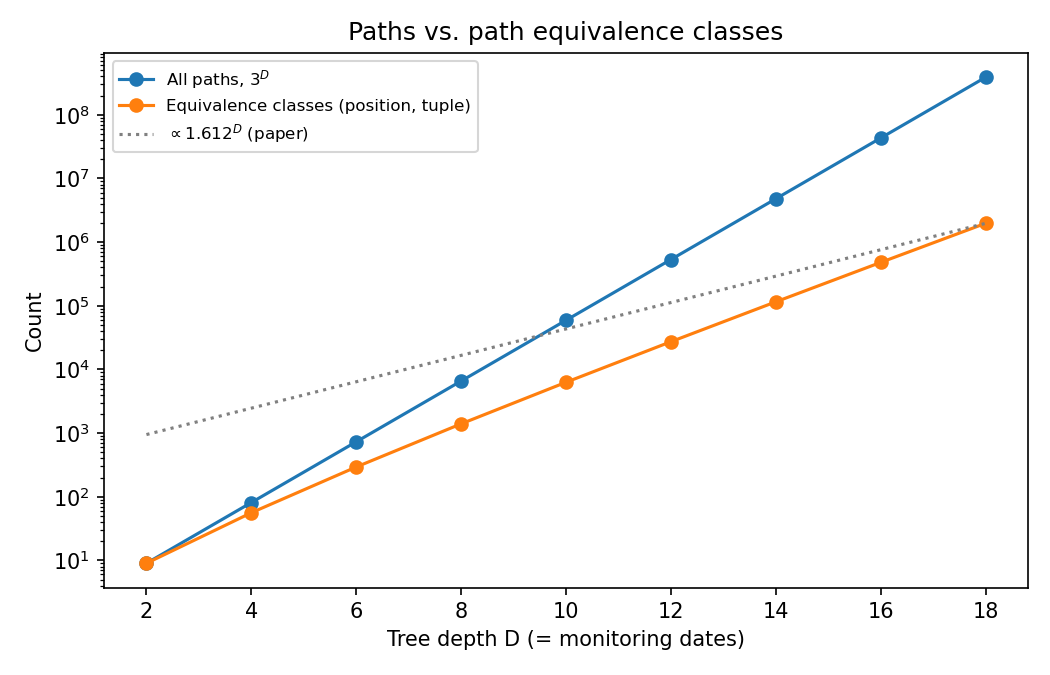
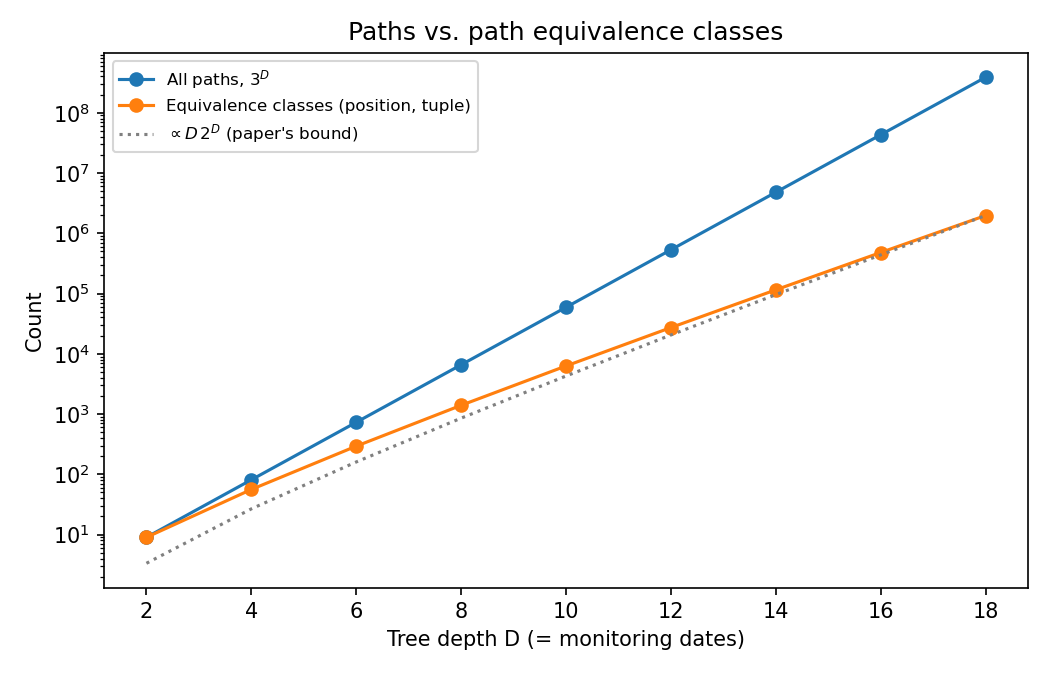
Update Asian put write-up to arXiv v2 of the paper
Cite the retitled v2, recast the growth-rate and peak-location
questions as confirmations (O(D 2^D) bound, D = 7 tuple counts), tie
the probability result to v2's degeneracy formula, soften the tree vs
GBM explanation, and fix the README layout.

diff --git a/Asian Put via Path Equivalence Classes.py b/Asian Put via Path Equivalence Classes.py
@@ -1,7 +1,7 @@
 # Exact pricing of an arithmetic-average Asian put on a recombining trinomial tree
 # by grouping paths into equivalence classes, following Torres, Sreenivas & Sowers,
-# "On the Enumeration of all Unique Paths of Recombining Trinomial Trees"
-# (arXiv:2510.02727). Two paths that end at the same node and visit each price
+# "Path Enumeration by Position-Visit Counts in Recombining Trinomial Trees"
+# (arXiv:2510.02727v2). Two paths that end at the same node and visit each price
 # level the same number of times (the same "cardinality tuple") have the same
 # path sum, so the Asian payoff only has to be evaluated once per class.
 #
@@ -221,20 +221,20 @@ if __name__ == "__main__":
             "Tree MC CI": "{:.5f}".format, "GBM MC": "{:.5f}".format,
             "GBM MC CI": "{:.5f}".format, "Tree - GBM": "{:+.5f}".format}))
 
-    # Growth of the number of classes against 3^D and the paper's 1.612^D rate
+    # Growth of the number of classes against 3^D and the paper's O(D 2^D) bound
     deep = conv[conv["D = m"] >= 8]
     growth = np.polyfit(deep["D = m"], np.log(deep["Classes"]), 1)[0]
     growth_node = np.polyfit(deep["D = m"], np.log(deep["Max per node"]), 1)[0]
     print(f"\nFitted growth, D >= 8: all classes ~ {np.exp(growth):.3f}^D, largest single node "
-          f"~ {np.exp(growth_node):.3f}^D (paper: 1.612^D; raw paths: 3^D)")
+          f"~ {np.exp(growth_node):.3f}^D (paper: O(D 2^D), base 2; raw paths: 3^D)")
 
     # Plots
     fig, ax = plt.subplots(figsize=(7, 4.5))
     ax.semilogy(conv["D = m"], conv["Paths 3^D"], "o-", label="All paths, $3^D$")
     ax.semilogy(conv["D = m"], conv["Classes"], "o-", label="Equivalence classes (position, tuple)")
     Ds = conv["D = m"].to_numpy(dtype=float)
-    ax.semilogy(Ds, conv["Classes"].iloc[-1] * 1.612 ** (Ds - Ds[-1]), ":", color="gray",
-                label=r"$\propto 1.612^D$ (paper)")
+    ax.semilogy(Ds, conv["Classes"].iloc[-1] * Ds / Ds[-1] * 2.0 ** (Ds - Ds[-1]), ":", color="gray",
+                label=r"$\propto D\,2^D$ (paper's bound)")
     ax.set_xlabel("Tree depth D (= monitoring dates)")
     ax.set_ylabel("Count")
     ax.set_title("Paths vs. path equivalence classes")

diff --git a/Asian Put via Path Equivalence Classes.md b/Asian Put via Path Equivalence Classes.md
@@ -1,6 +1,6 @@
 # Pricing an Asian put with path equivalence classes
 
-An experiment applying the cardinality-tuple equivalence classes from Torres, Sreenivas & Sowers, [*On the Enumeration of all Unique Paths of Recombining Trinomial Trees*](https://arxiv.org/abs/2510.02727) (arXiv:2510.02727), to exact pricing of an arithmetic-average Asian put. The code is in [`Asian Put via Path Equivalence Classes.py`](Asian%20Put%20via%20Path%20Equivalence%20Classes.py) and runs in about 20 seconds.
+An experiment applying the cardinality-tuple equivalence classes from Torres, Sreenivas & Sowers, [*Path Enumeration by Position-Visit Counts in Recombining Trinomial Trees*](https://arxiv.org/abs/2510.02727v2) (arXiv:2510.02727v2, September 2026), to exact pricing of an arithmetic-average Asian put. The code is in [`Asian Put via Path Equivalence Classes.py`](Asian%20Put%20via%20Path%20Equivalence%20Classes.py) and runs in about 20 seconds.
 
 ## Setup
 
@@ -10,13 +10,13 @@ An experiment applying the cardinality-tuple equivalence classes from Torres, Sr
 
 ## Method
 
-The paper's contribution is a recursion-free mass-shifting enumerator that generates one representative per class. I did **not** reimplement that algorithm. Instead, a forward pass over the tree merges paths as soon as they share (current position, cardinality tuple), and each class carries its total probability and its path count. This builds exactly the paper's classes $\hat C_{D,k^{\ast}}$. I checked that by counting distinct tuples over all 3^D paths for D = 5, 7 and 9, and it reproduces the paper's Figure 1 example (3 paths with sum 102).
+The paper's contribution is a recursion-free mass-shifting enumerator that generates one representative per class. I did **not** reimplement that algorithm. Instead, a forward pass over the tree merges paths as soon as they share (current position, cardinality tuple), and each class carries its total probability and its path count. This builds exactly the paper's classes $\hat C_{D,k^{\ast}}$. I checked that by counting distinct tuples over all 3^D paths for D = 5, 7 and 9. It also reproduces the paper's Figure 1 example (3 paths with sum 102) and its D = 7 table of tuple counts per endpoint (59, 71, 76, 68, 47, 23, 7, 1 for k\* = 0…7).
 
 ## Results
 
 **1. The class-based price is exact.** It matches brute-force enumeration of all 3^D paths to about 1e-13 for D ≤ 12. Monte Carlo on the tree agrees within the 95% CI at 8 of 9 depths.
 
-**2. The compression is large.** At D = 18 there are 1.97 million classes against 387 million paths, about 200× fewer, and the pass takes 8 s in pure Python.
+**2. The compression is large, and it grows at the paper's rate.** At D = 18 there are 1.97 million classes against 387 million paths, about 200× fewer, and the pass takes 8 s in pure Python. The fitted growth for D ≥ 8 is about 2.06^D in total and 1.97^D at the largest single endpoint. That is consistent with the paper's O(D·2^D) worst-case bound and exact growth base 2; the extra factor of D nudges a fitted base slightly above 2.
 
 | D | Paths 3^D | Classes | Exact tree price |
 |---|---|---|---|
@@ -24,7 +24,7 @@ The paper's contribution is a recursion-free mass-shifting enumerator that gener
 | 14 | 4.8M | 115,069 | 2.48100 |
 | 18 | 387M | 1,967,885 | 2.45451 |
 
-**3. Paths in the same class can have different probabilities.** That is where the interesting part is. The paper averages path sums as Σ p·N_p / Σ N_p, which weights every path equally. Under risk-neutral trinomial probabilities, (0,1,0,1) and (0,0,1,1) have the same tuple but probabilities p_u²p_d and p_m²p_u. More generally, a path ending at k\* with j₋ down-steps has probability
+**3. Paths in the same class can have different probabilities.** That is where the interesting part is. The paper's degeneracy formula (Theorem 5.18) gives each class's number of raw paths, and Corollary 5.20 averages path sums weighted by those counts, which weights every path equally. The paper notes that path probabilities are not included and that pricing needs class probability weights (Section 9.2(A)); this result works out what those weights are for a risk-neutral trinomial tree, and when the equal weighting already gives them. Under risk-neutral trinomial probabilities, (0,1,0,1) and (0,0,1,1) have the same tuple but probabilities p_u²p_d and p_m²p_u. More generally, a path ending at k\* with j₋ down-steps has probability
 
 $$p_u^{k^{\ast}} p_m^{D-k^{\ast}} \left(\frac{p_u p_d}{p_m^2}\right)^{j_-},$$
 
@@ -43,13 +43,12 @@ whose admissible root λ\* → √(3/2) as the drift vanishes. That is the stret
 
 The general fix is to carry probability mass per class, as in result 1, instead of path counts.
 
-**4. Comparison with Monte Carlo under GBM.** With the same number of monitoring dates, the tree prices 1–3 cents above the club Monte Carlo pricer for D ≥ 10. That gap comes from using only one tree step per monitoring date.
+**4. Comparison with Monte Carlo under GBM.** With the same number of monitoring dates, the tree prices 1–3 cents above the club Monte Carlo pricer for D ≥ 10. The gap likely comes from the tree's discretization, since it takes only one step per monitoring date; I have not isolated the cause.
 
 Plots: [`asian_put_classes_vs_paths.png`](plots/asian_put_classes_vs_paths.png), [`asian_put_count_weighting_bias.png`](plots/asian_put_count_weighting_bias.png), [`asian_put_tree_vs_mc.png`](plots/asian_put_tree_vs_mc.png).
 
 ## Open questions
 
-- **Growth rate.** I measure the number of classes growing about 2.06^D in total and about 1.97^D at the largest single terminal node, against the 1.612^D in the abstract. Is the 1.612^D figure about a different quantity, such as the positive-side classes $C^+_{D,k^{\ast}}$, or am I using a different equivalence relation than intended?
-- **Where the class count peaks.** The largest $|\hat C_{D,k^{\ast}}|$ occurs at |k\*| ≈ D/3 (for example |k\*| = 7 at D = 18), not at k\* = 0 as in eq. (6.1). Does (6.1) refer to raw path counts, which do peak at 0, rather than to tuple counts?
-- **General probabilities.** For p_m² ≠ p_u·p_d, the classes could be refined by (tuple, number of flat steps), since that pair fixes a path's probability. Does the weak-composition count extend to this refinement? That would give closed-form weights instead of a forward pass.
-- **Deep trees.** Because the Asian payoff depends only on the path sum, classes with nearly equal sums could be merged or stratified, along the lines of the stratified-sampling application in Section 7.2(A).
+- **Closed-form class probabilities.** For p_m² ≠ p_u·p_d, a path's probability is fixed by its tuple together with its total number of stay steps. Theorem 5.18 sums over per-level up, down and stay counts, so grouping its terms by total stays might give each class's risk-neutral probability in closed form, replacing the forward pass. Does the formula split that way?
+- **Deep trees.** Because the Asian payoff depends only on the path sum, classes with nearly equal sums could be merged or stratified, along the lines of the stratified-sampling application in Section 9.2(A).
+- **Finer time steps.** Taking several tree steps per monitoring date would reduce the discretization error in result 4, but then only some visits enter the average. Is there a natural extension of the cardinality tuple that counts only visits on monitoring dates?

diff --git a/README.md b/README.md
@@ -2,7 +2,15 @@
 
 ## European put
 
-Prices a European put under Black-Scholes-Merton by Monte Carlo simulation and compares it with the exact closed-form price. Runs a convergence study over sample sizes from 100 to 20 million, reporting standard errors, 95% confidence intervals and timing, and estimates the sample size needed for cent-level accuracy.
+Prices a European put under Black-Scholes-Merton by Monte Carlo simulation and compares it with the exact closed-form price. Runs a convergence study over sample sizes from 100 to 20 million, reporting standard errors, 95% confidence intervals and timing, and estimates the sample size needed for cent-level accuracy. It also compares standard Monte Carlo with antithetic variates and benchmarks a Python loop against the vectorized NumPy version.
+
+## Asian call
+
+Prices an arithmetic-average Asian call (50 monitoring dates) by Monte Carlo, simulating paths in chunks to keep memory bounded. There is no closed form for the arithmetic Asian, so the same paths also price the geometric Asian call, which is checked against its exact closed-form price. It also compares two variance reduction methods with standard Monte Carlo: a control variate using the geometric Asian call (about 1,100× less variance) and moment matching (about 8× less variance, with its small-batch bias measured).
+
+## Asian put via path equivalence classes
+
+An experiment applying the path equivalence classes of Torres, Sreenivas & Sowers ([arXiv:2510.02727v2](https://arxiv.org/abs/2510.02727v2)) to exact pricing of an arithmetic Asian put on a trinomial tree. It compares the exact tree price against brute-force enumeration and Monte Carlo, and examines when weighting paths equally gives the risk-neutral price. See [the write-up](Asian%20Put%20via%20Path%20Equivalence%20Classes.md).
 
 ## Run
 
@@ -13,12 +21,4 @@ python "Monte Carlo Pricing of an Asian Call.py"
 python "Asian Put via Path Equivalence Classes.py"
 ```
 
-The script also compares standard Monte Carlo with antithetic variates, benchmarks a Python loop against the vectorized NumPy version, and saves convergence plots to `plots/`.
-
-## Asian call
-
-Prices an arithmetic-average Asian call (50 monitoring dates) by Monte Carlo, simulating paths in chunks to keep memory bounded. There is no closed form for the arithmetic Asian, so the same paths also price the geometric Asian call, which is checked against its exact closed-form price. It also compares two variance reduction methods with standard Monte Carlo: a control variate using the geometric Asian call (about 1,100× less variance) and moment matching (about 8× less variance, with its small-batch bias measured).
-
-## Asian put via path equivalence classes
-
-An experiment applying the path equivalence classes of Torres, Sreenivas & Sowers ([arXiv:2510.02727](https://arxiv.org/abs/2510.02727)) to exact pricing of an arithmetic Asian put on a trinomial tree. It compares the exact tree price against brute-force enumeration and Monte Carlo, and examines when weighting paths equally gives the risk-neutral price. See [the write-up](Asian%20Put%20via%20Path%20Equivalence%20Classes.md).
+Each script prints its tables and saves its plots to `plots/`.
